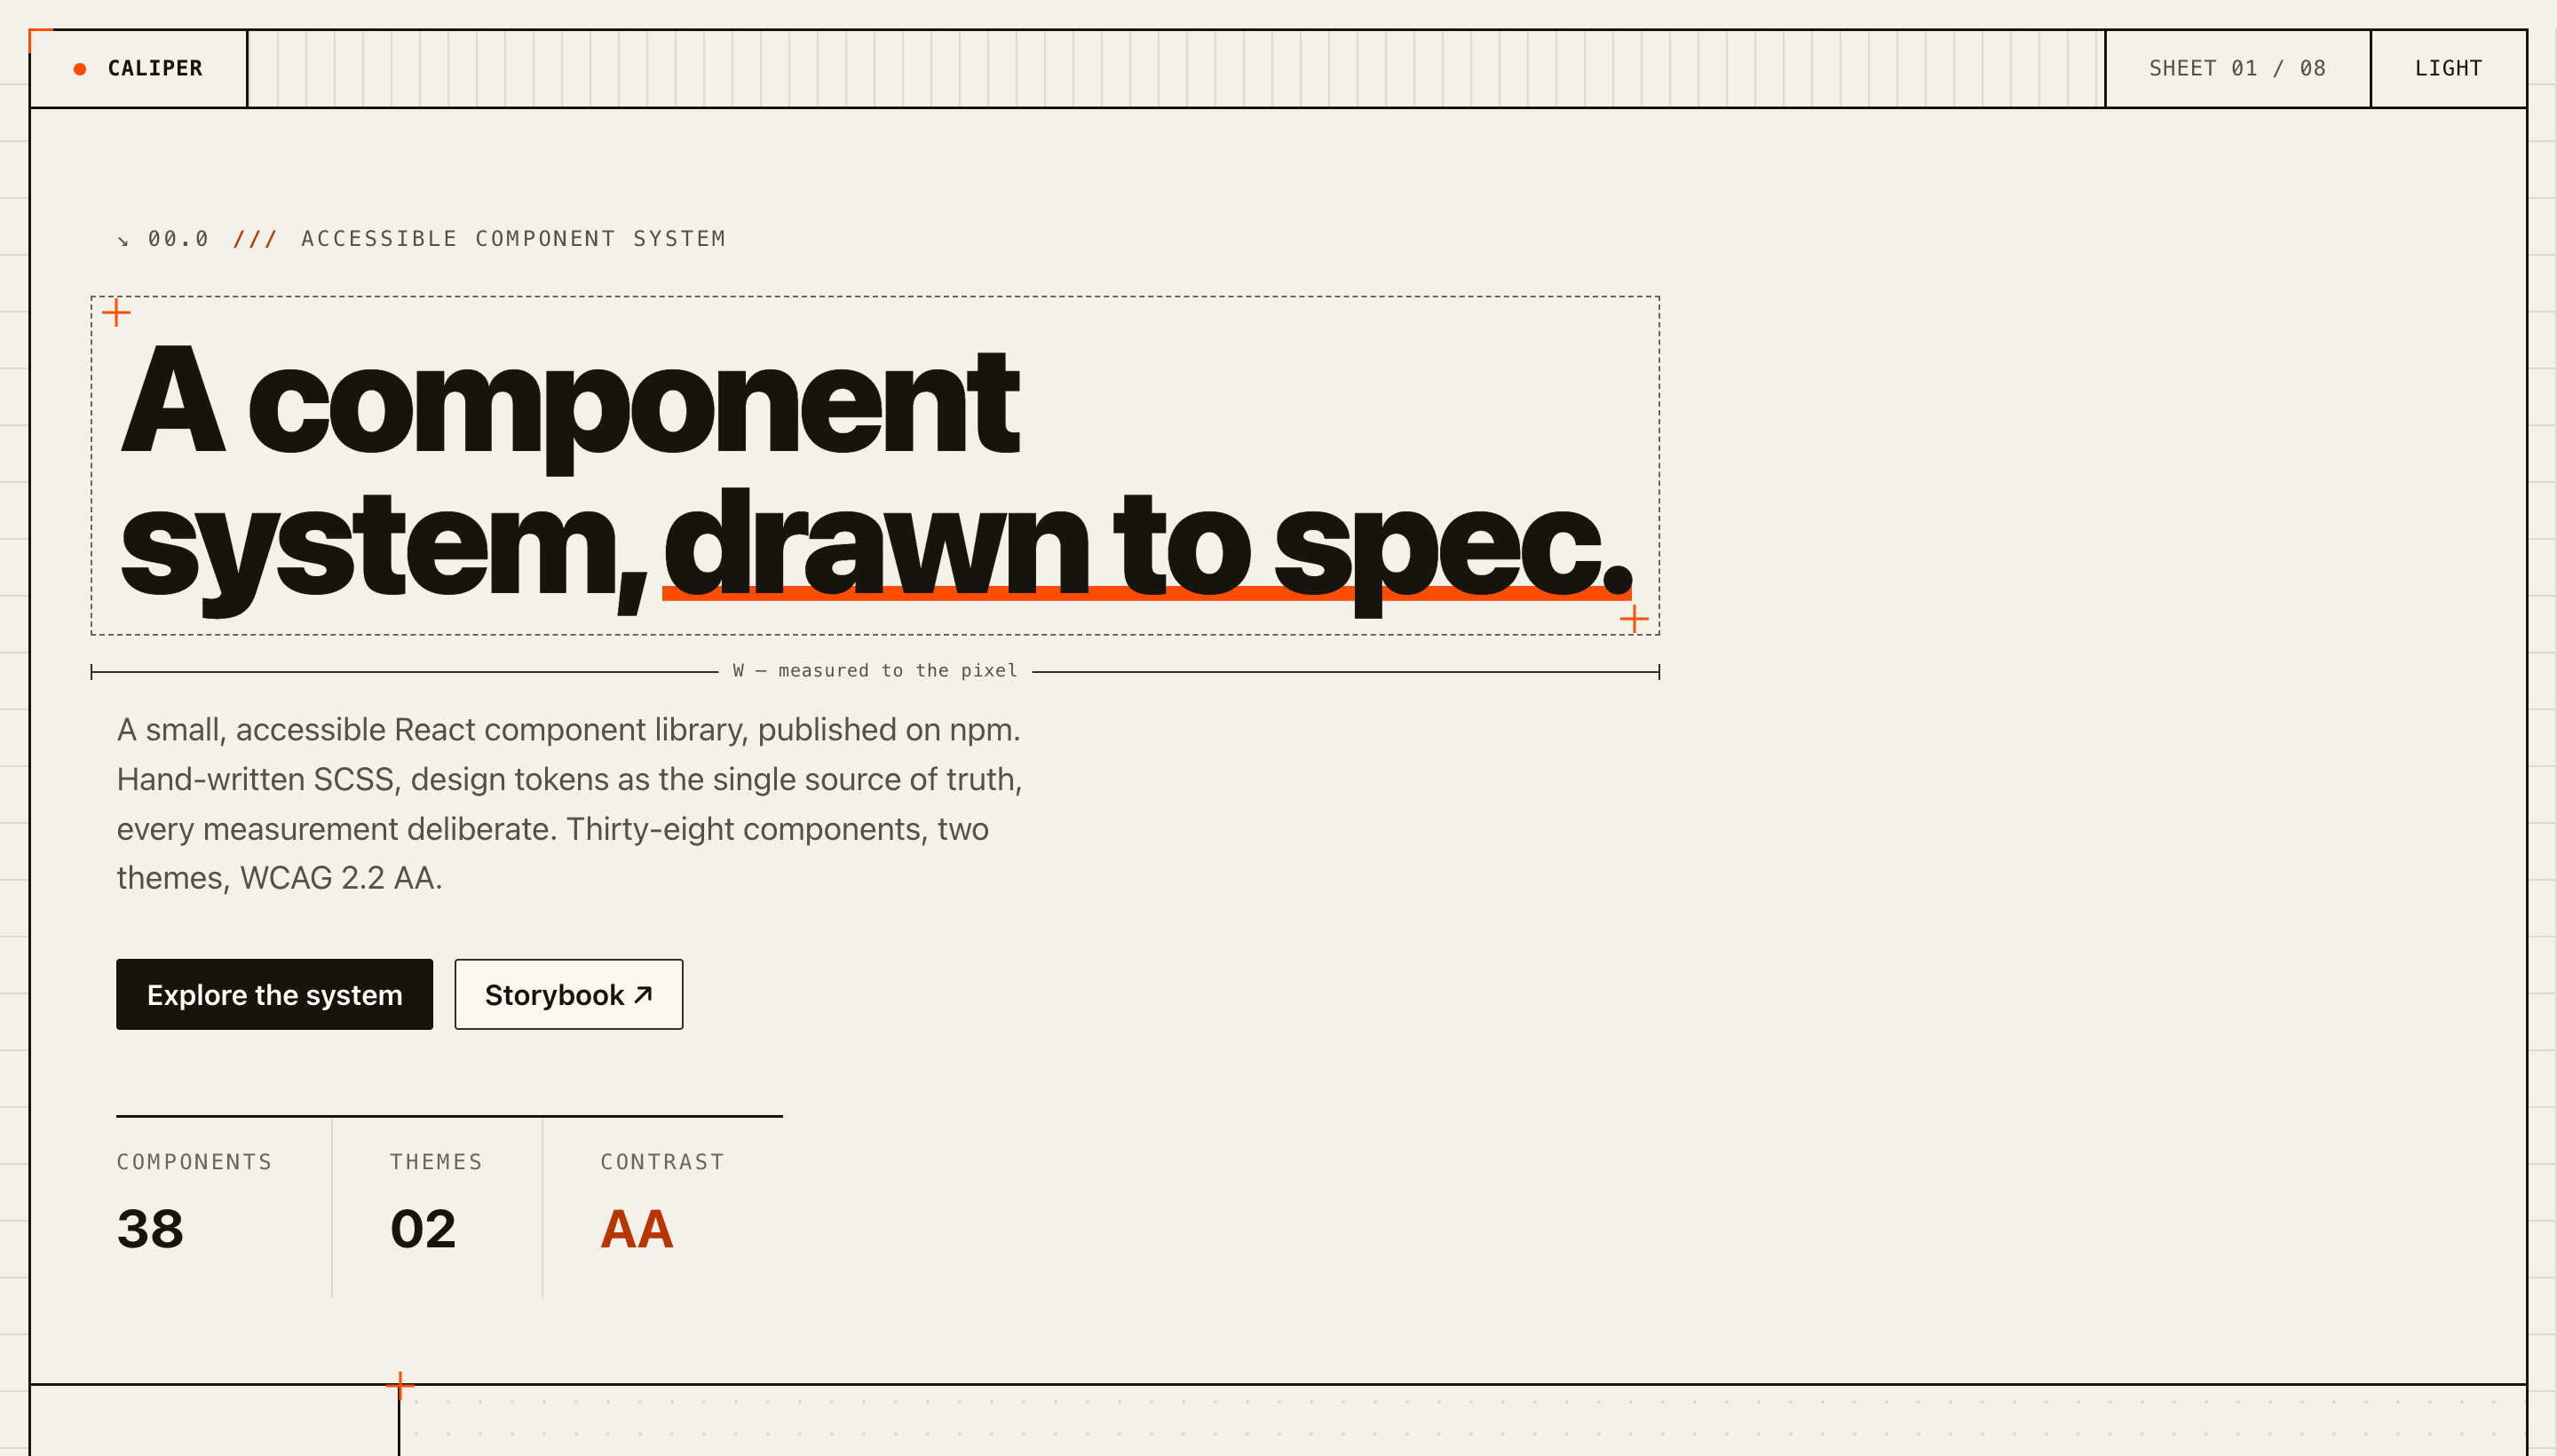
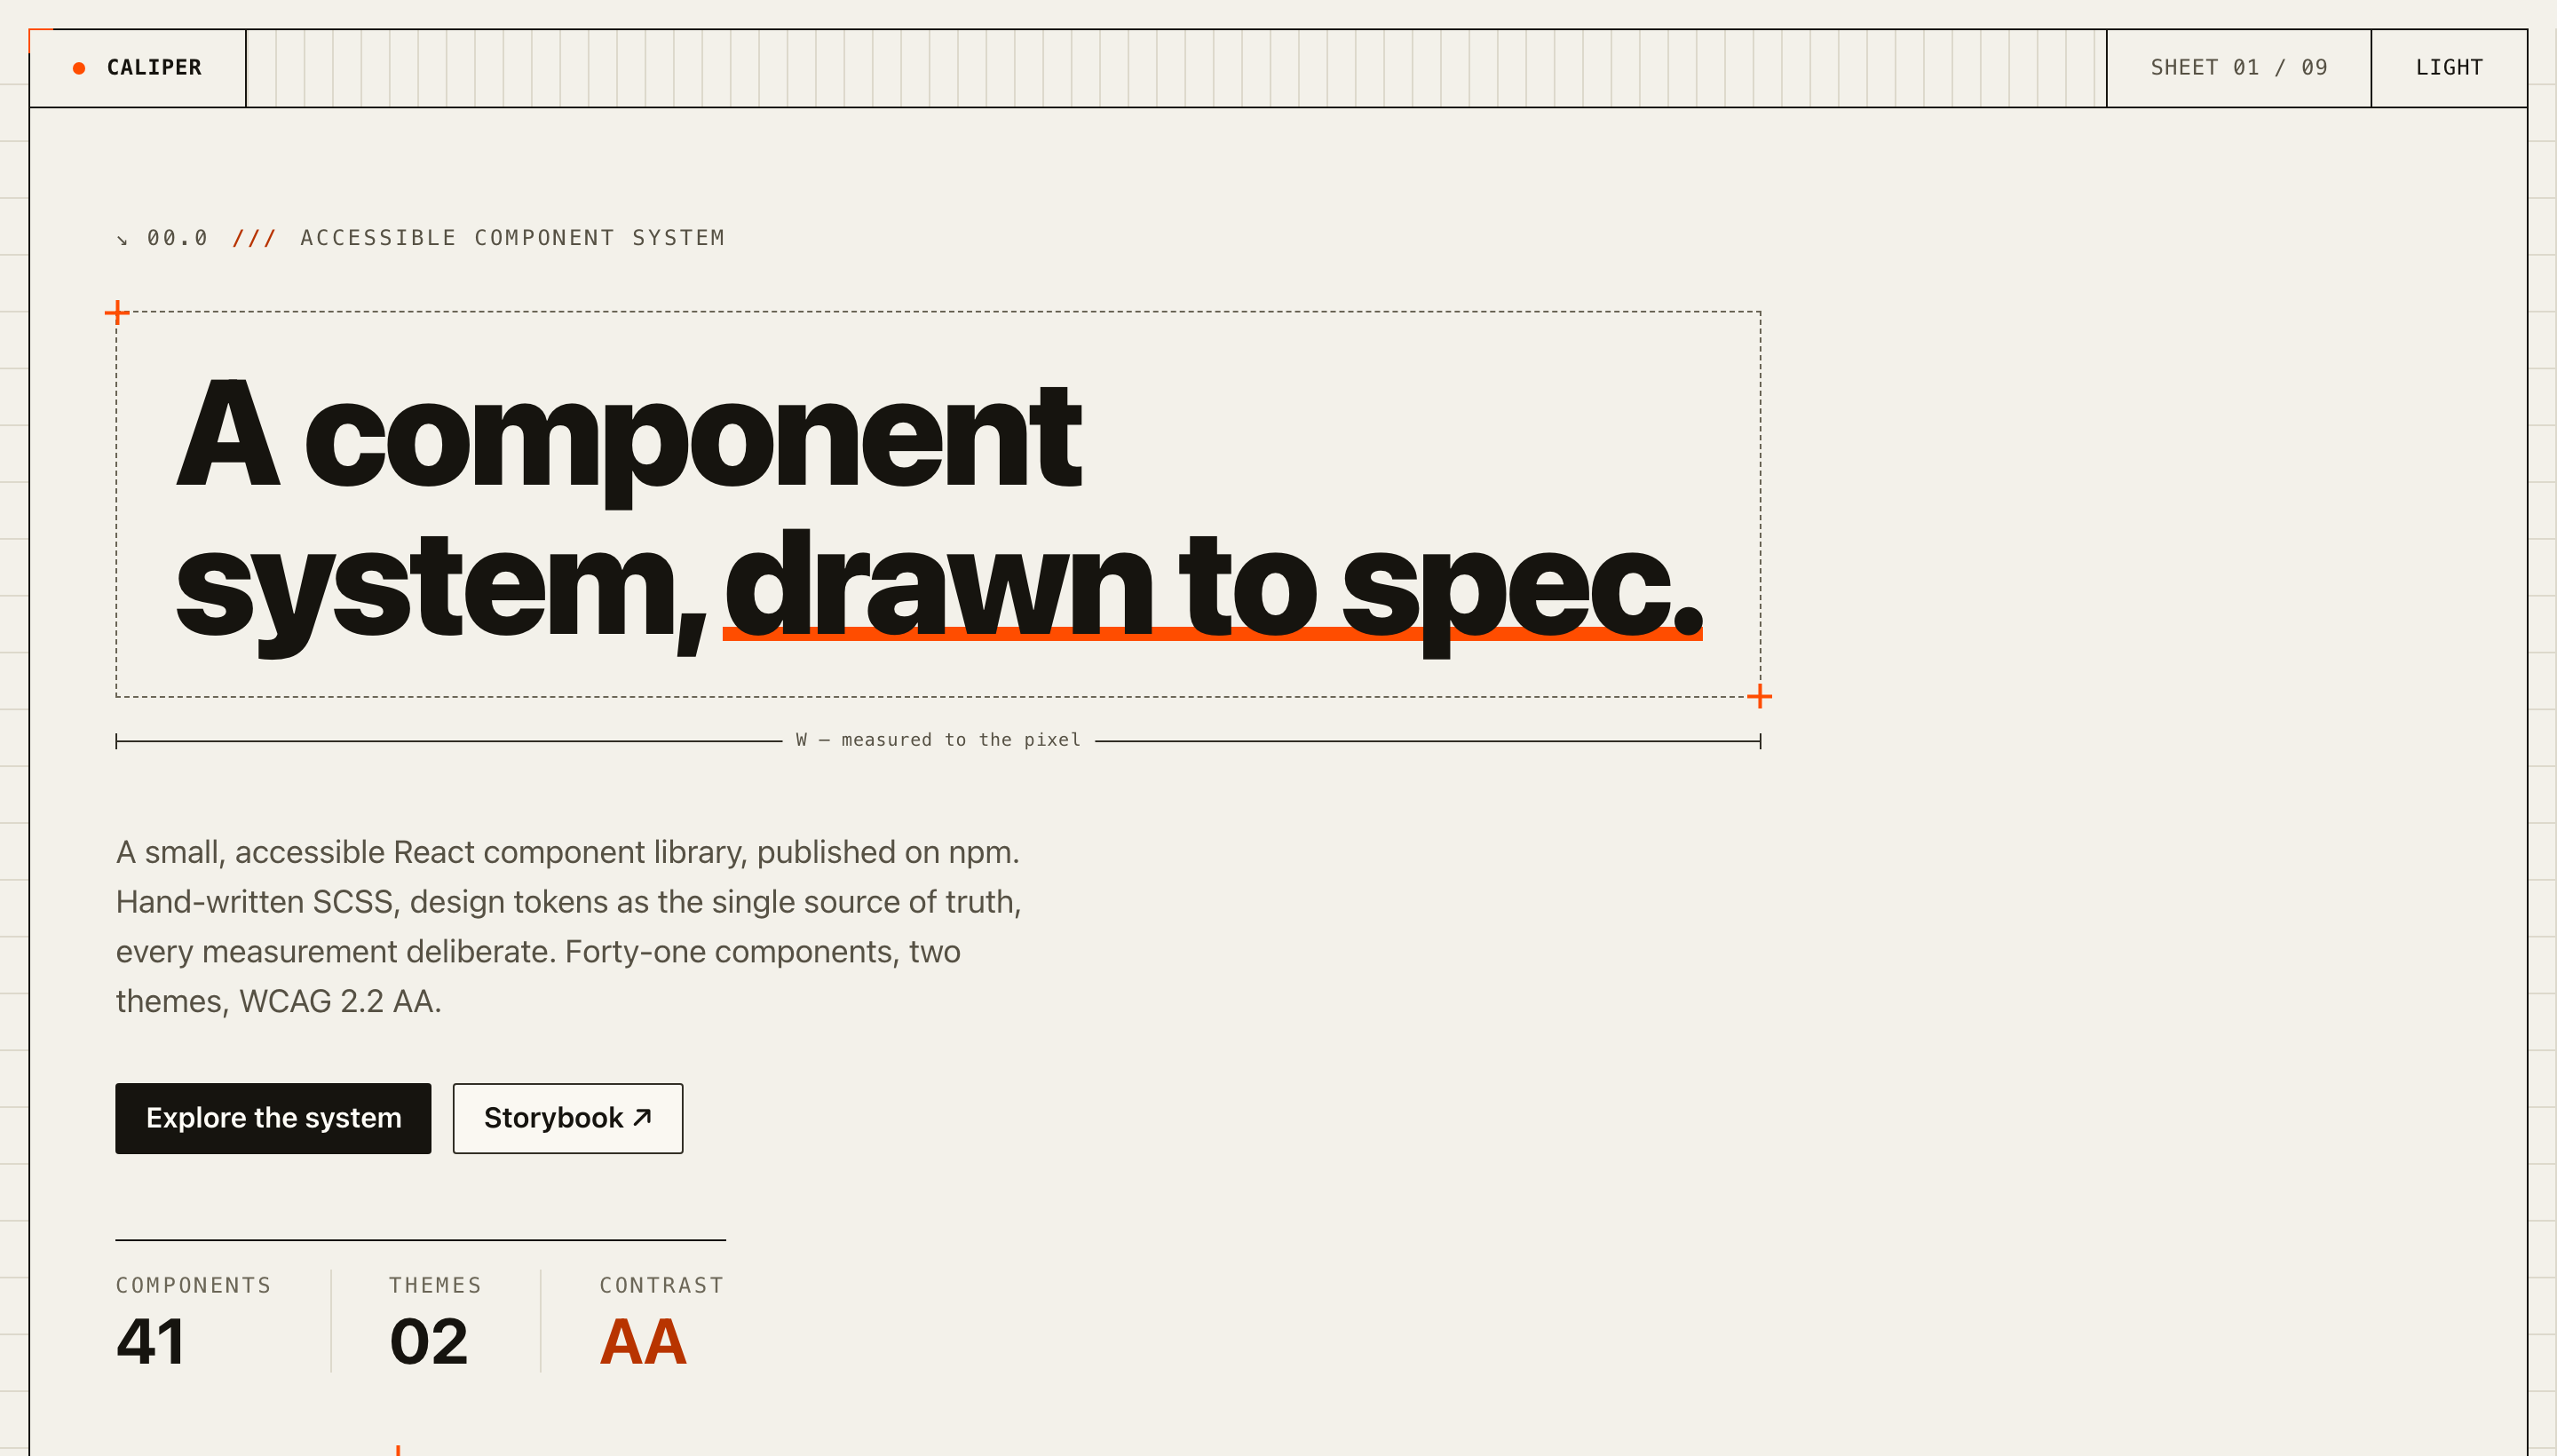
Update Caliper UI to 41 components and refresh screenshot
Sync the Caliper UI case study to 41 components (description, outcome, what I
built, image alt) in seed.ts and the live CMS, and recapture the demo screenshot.

diff --git a/src/seed.ts b/src/seed.ts
@@ -197,9 +197,9 @@ const projectsData = [
     featured: true,
     order: 1,
     description:
-      'An accessible React component library and design system, published on npm. 38 components from a single token layer, hand-written SCSS with BEM, two themes, WCAG 2.2 AA. Built with a "Spec Sheet" technical-drawing identity.',
+      'An accessible React component library and design system, published on npm. 41 components from a single token layer, hand-written SCSS with BEM, two themes, WCAG 2.2 AA. Built with a "Spec Sheet" technical-drawing identity.',
     outcome:
-      'An accessible React component library and design system, published on npm as @ryancalacsan/caliper-ui: 38 components built from one token layer, two themes switched by a data attribute, and WCAG 2.2 AA verified by an automated contrast check and axe on every Storybook story. This portfolio is built with it.',
+      'An accessible React component library and design system, published on npm as @ryancalacsan/caliper-ui: 41 components built from one token layer, two themes switched by a data attribute, and WCAG 2.2 AA verified by an automated contrast check and axe on every Storybook story. This portfolio is built with it.',
     challenge: richText([
       paragraph(
         'I wanted to show design-system craft without a utility framework. The aim was a small component library styled in hand-written SCSS with BEM, where one token layer is the single source of truth for color, type, spacing, radii, motion, and breakpoints.',
@@ -214,7 +214,7 @@ const projectsData = [
       ),
       bulletList([
         'Published as an installable npm package (@ryancalacsan/caliper-ui), shipped as ESM with type declarations, RSC-ready (server-renderable where possible, with "use client" only where needed), and with self-contained CSS that inlines its fonts.',
-        '38 accessible components across primitives, layout, forms, overlays, and the Spec Sheet drawing motifs. Interactive parts like Modal, Select (a custom ARIA listbox), Tabs, and Tooltip are keyboard-operable with correct ARIA and managed focus.',
+        '41 accessible components across primitives, layout, forms, overlays, and the Spec Sheet drawing motifs. Interactive parts like Modal, Select (a custom ARIA listbox), Tabs, and Tooltip are keyboard-operable with correct ARIA and managed focus.',
         'A "Spec Sheet" visual identity: warm paper and ink with one construction-orange accent, drawn like a technical document. Light and dark themes come from one token set and switch by a data attribute, with no component changes between them.',
         'WCAG 2.2 AA verified, not assumed. A script checks every color pairing in both themes, and Storybook runs axe on every story.',
         'Engineered like a real product: Vitest interaction tests, Playwright visual regression in both themes, GitHub Actions CI, Changesets-driven releases, and npm Trusted Publishing (OIDC with provenance, no stored secrets).',
@@ -247,7 +247,7 @@ const projectsData = [
     liveUrl: 'https://caliper-ui.vercel.app',
     githubUrl: 'https://github.com/ryancalacsan/caliper-ui',
     npmUrl: 'https://www.npmjs.com/package/@ryancalacsan/caliper-ui',
-    image: { filename: 'caliper-ui.png', alt: 'Caliper UI demo shown as a technical spec sheet on warm paper with a construction-orange accent: 38 components, two themes, WCAG 2.2 AA' },
+    image: { filename: 'caliper-ui.png', alt: 'Caliper UI demo shown as a technical spec sheet on warm paper with a construction-orange accent: 41 components, two themes, WCAG 2.2 AA' },
   },
   {
     title: 'OutreachAI',